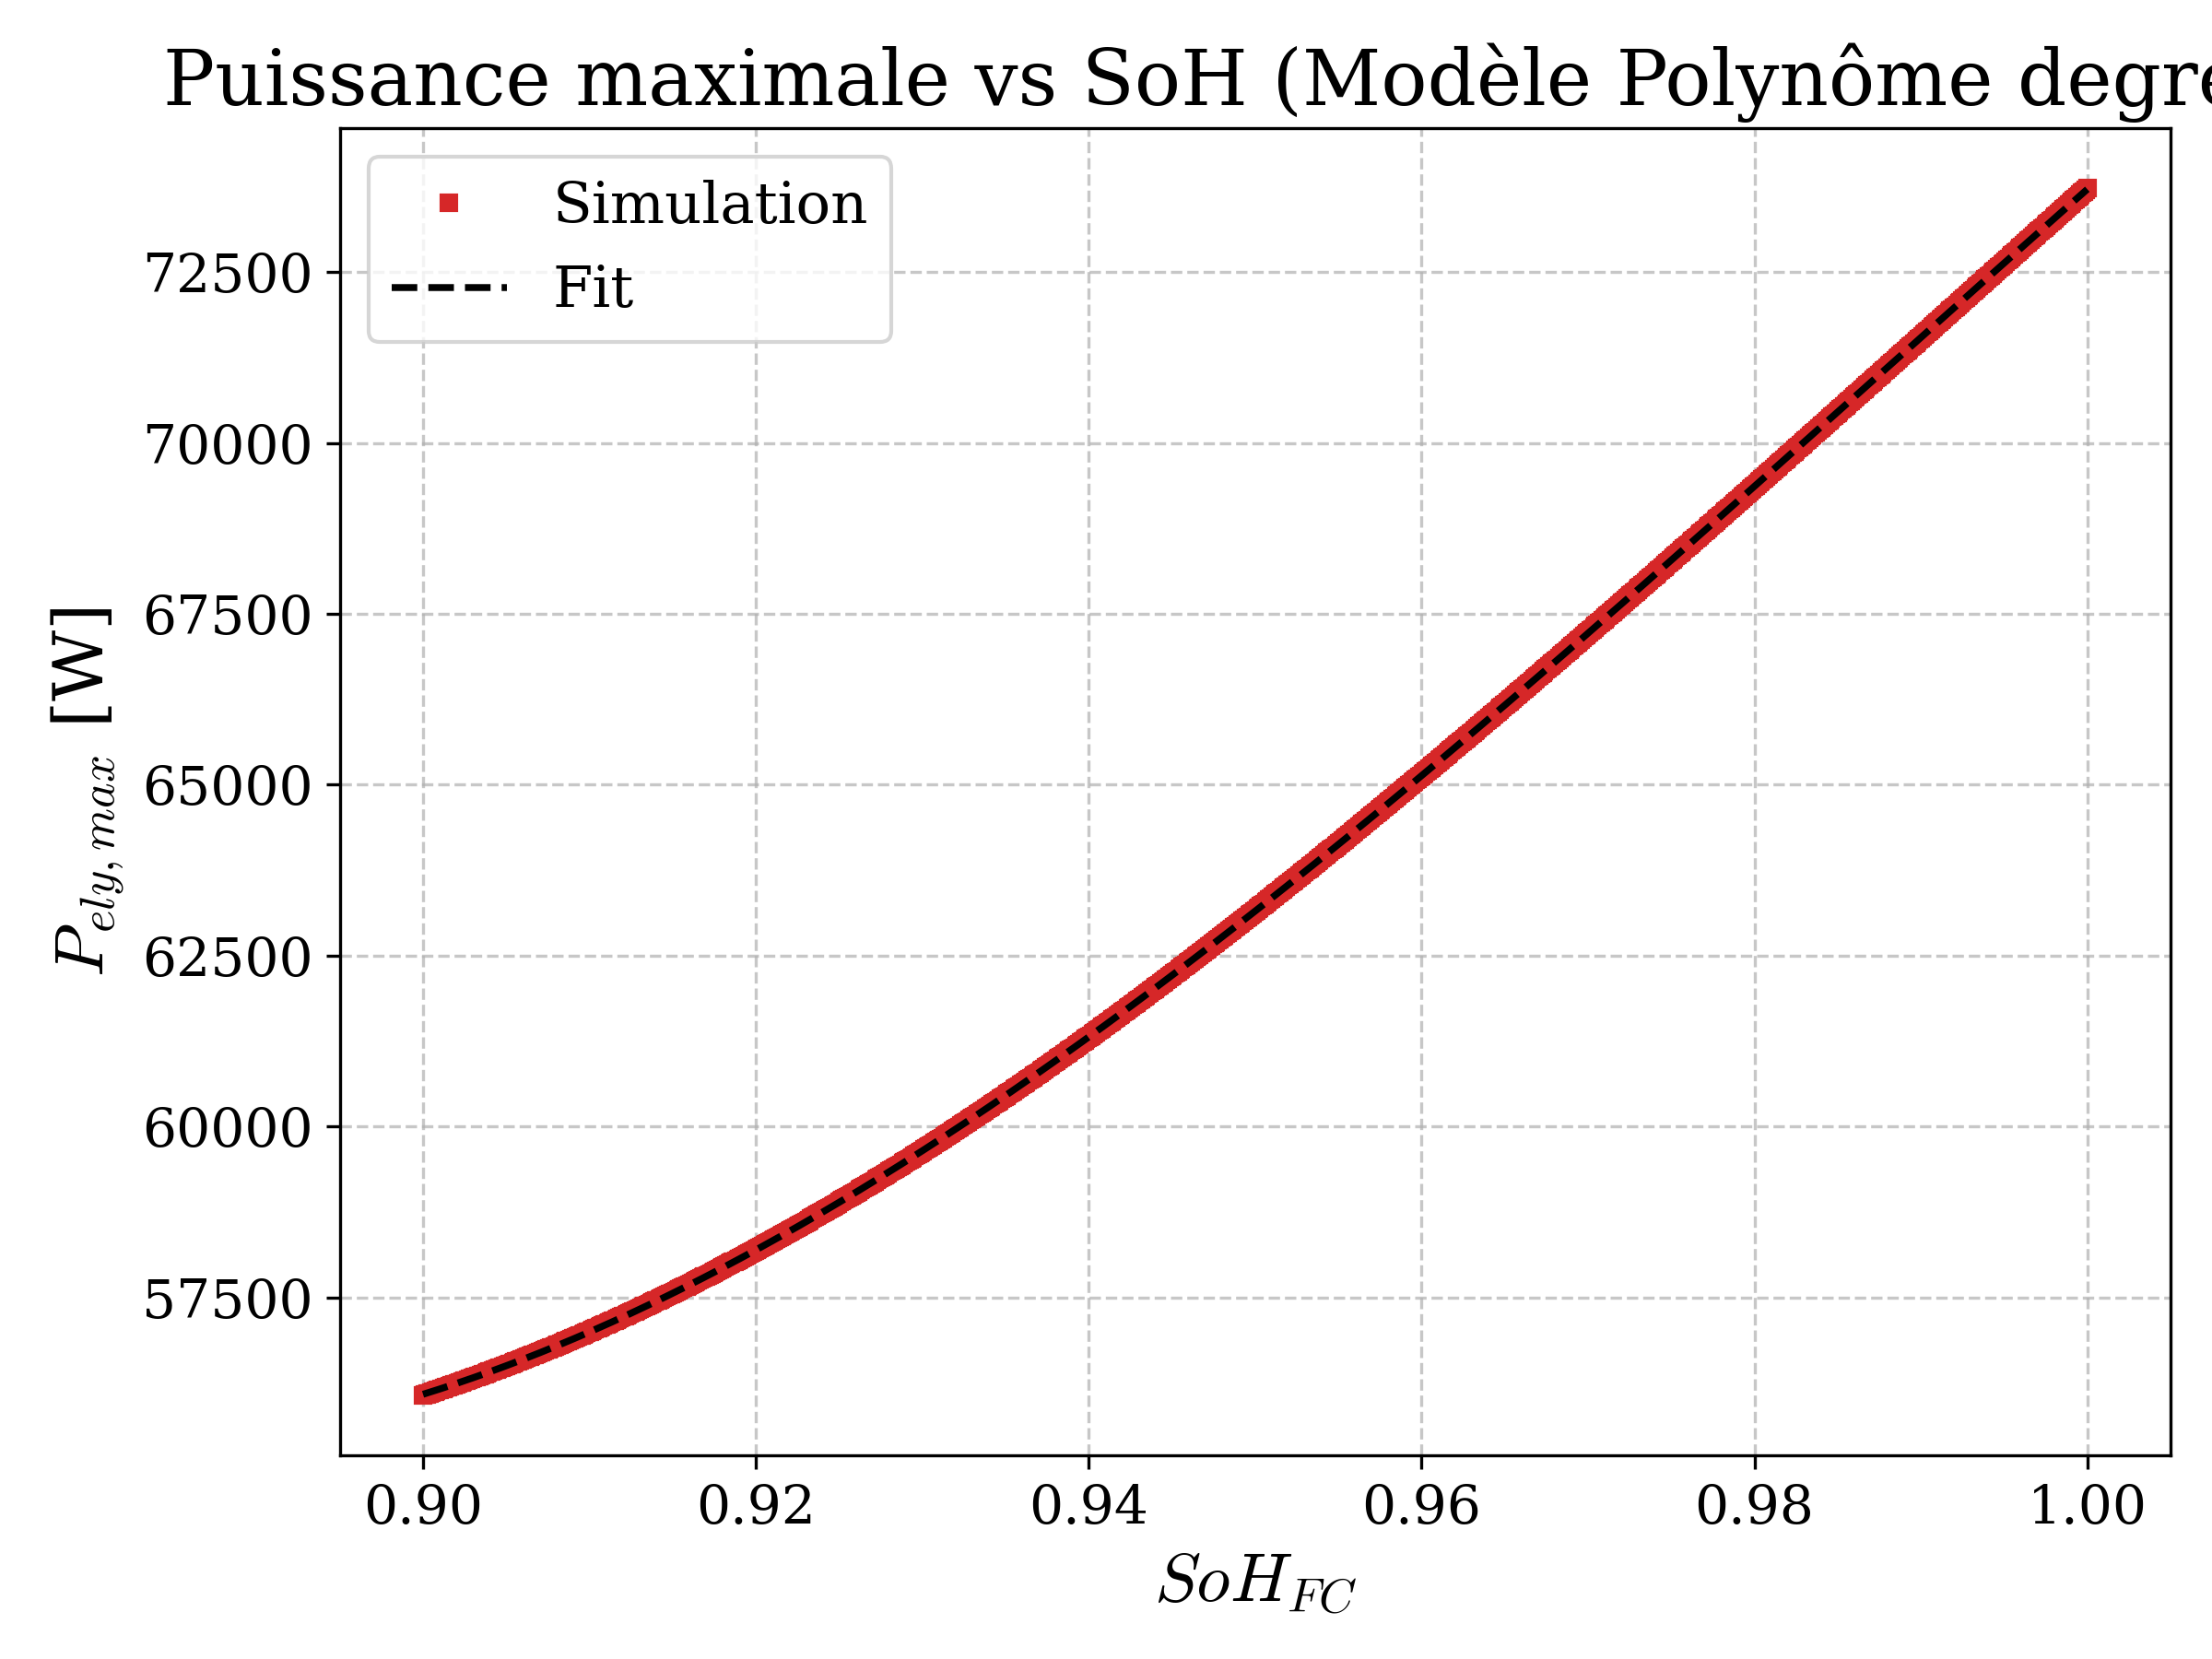
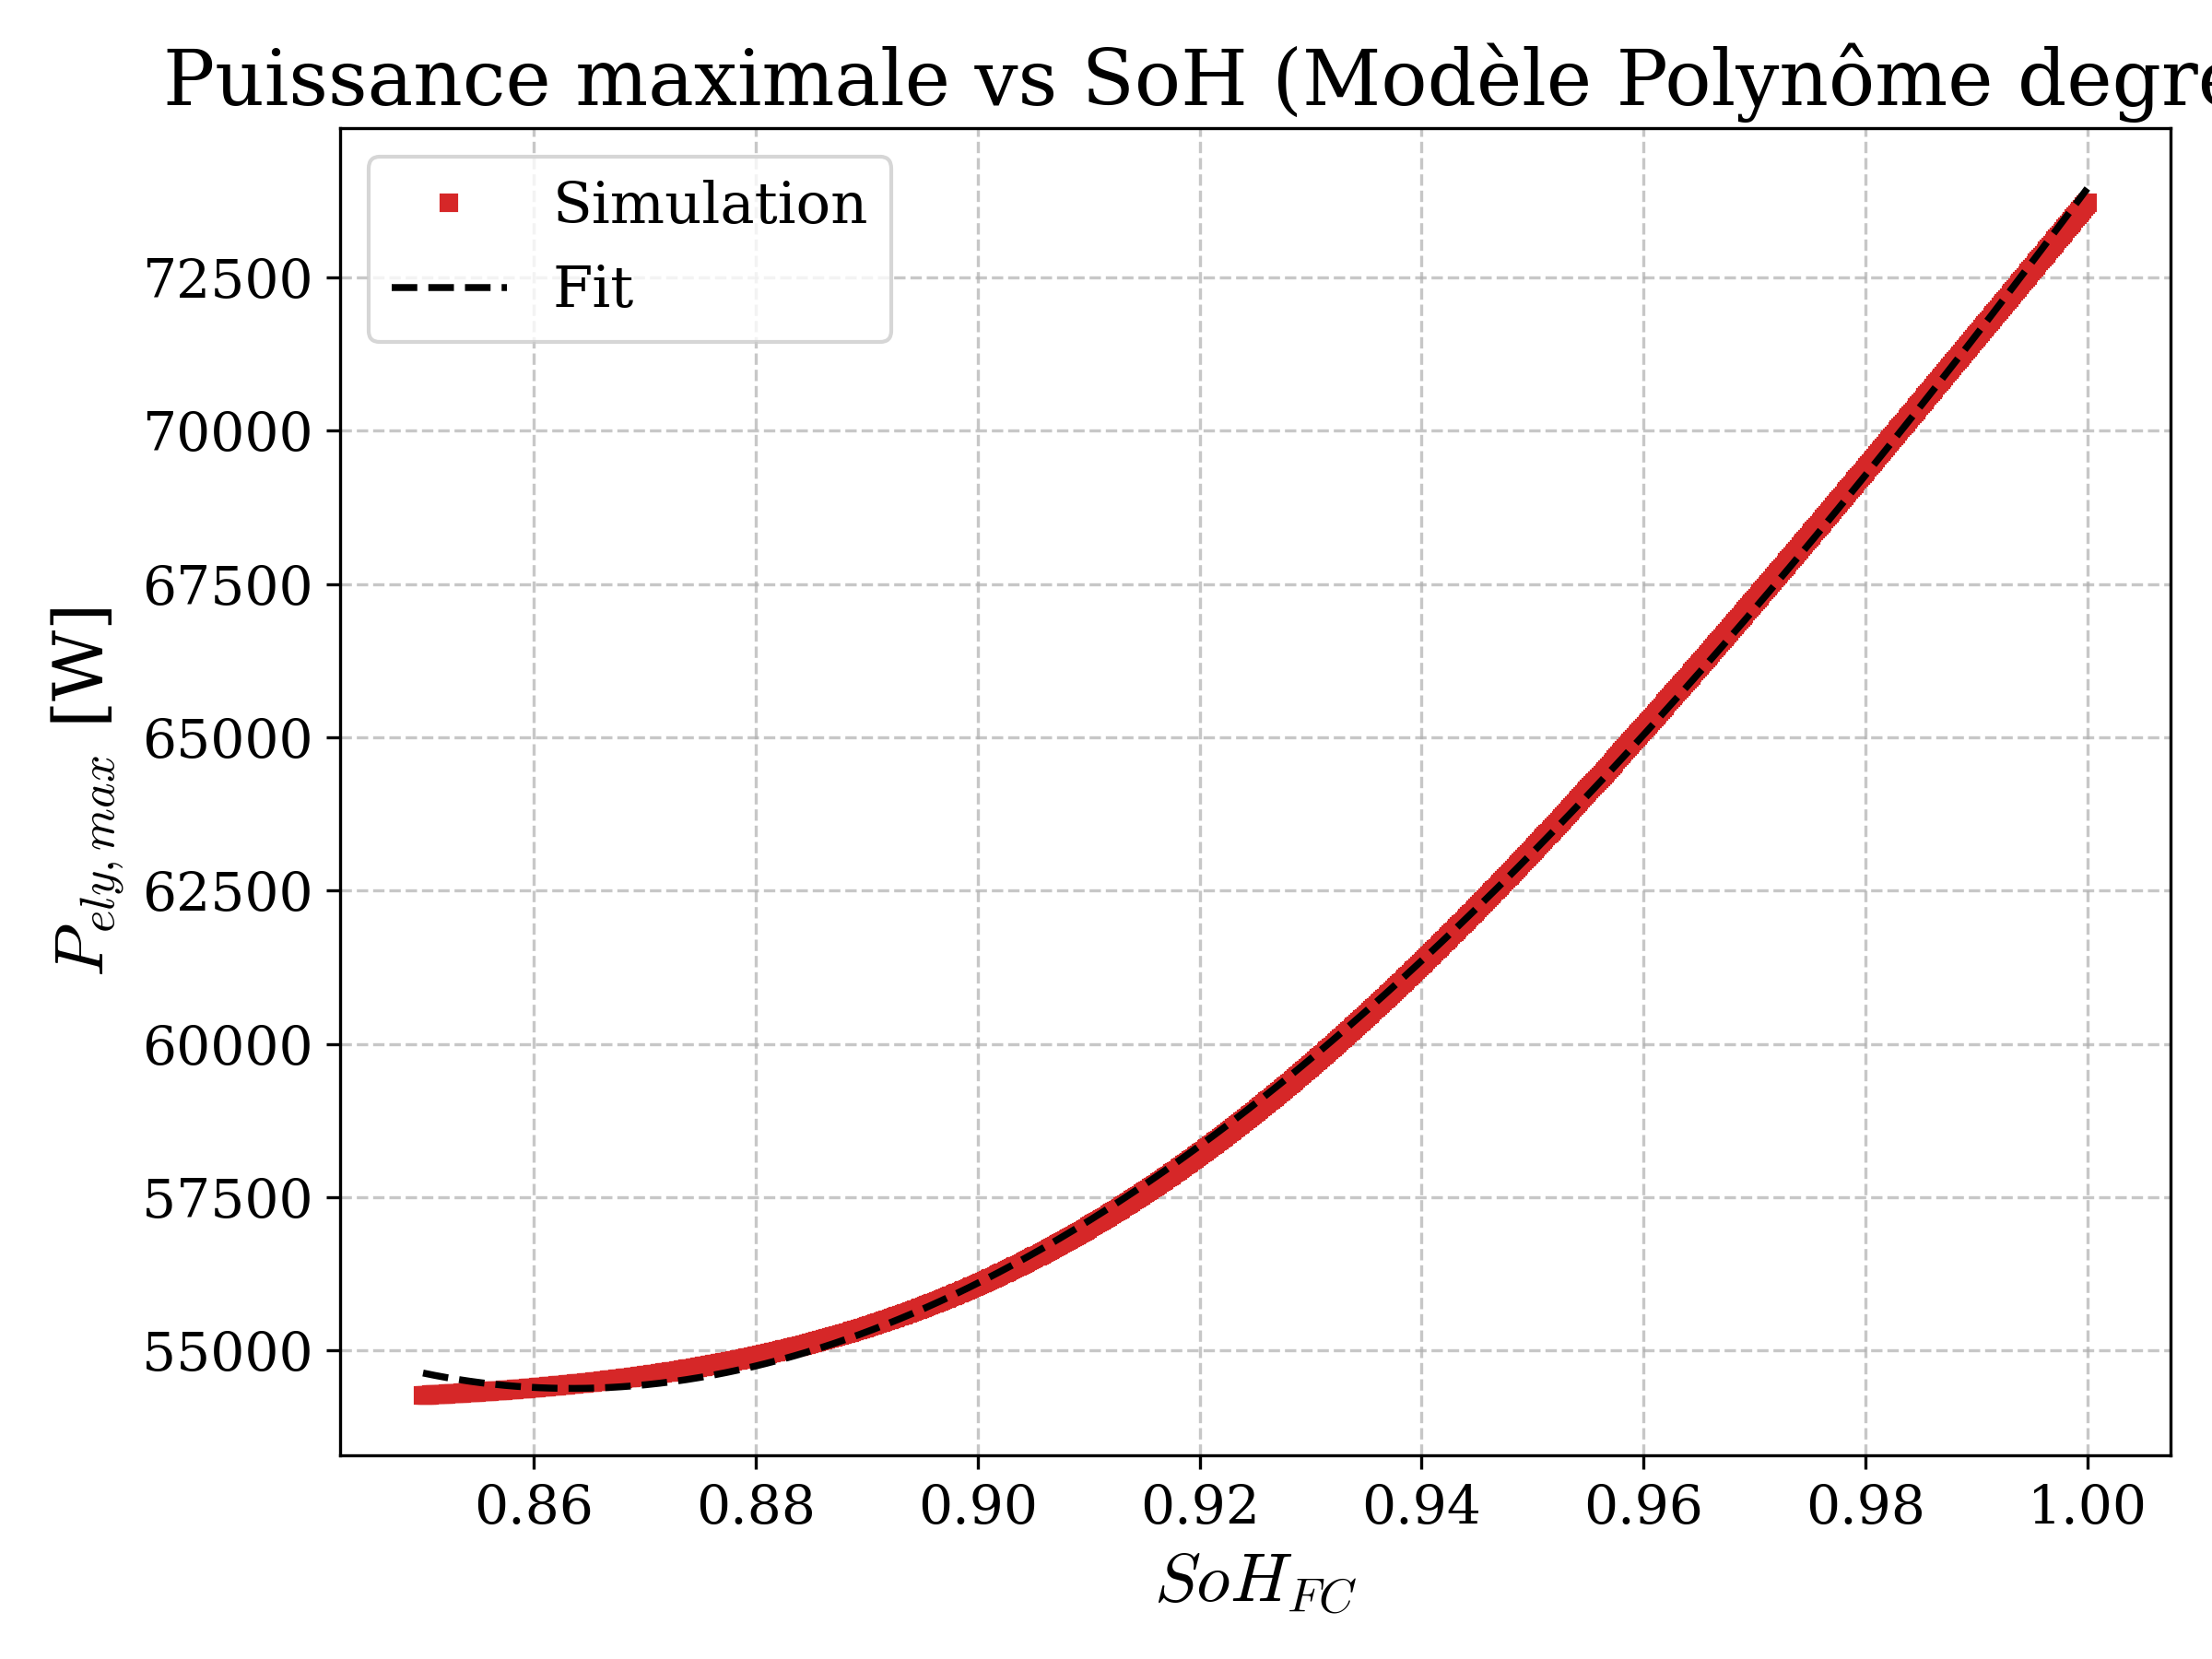
Analyse sensibilité qui marche

diff --git a/Modèles SOH/ELY.py b/Modèles SOH/ELY.py
@@ -154,7 +154,7 @@ SoH_ely = np.array([
 from scipy.optimize import brentq
 
 ####################################################################################################################
-SoH_EoL_ely = 0.9
+SoH_EoL_ely = 0.85
 ####################################################################################################################
 
 V_bol_ely   = voltage(0.0, i_ely_nom)
@@ -163,7 +163,7 @@ def residual_ely(alpha):
     return V_bol_ely / voltage(alpha, i_ely_nom) - SoH_EoL_ely
 
 # Pour l'ELY : tension monte avec alpha, donc SoH décroît → résiduel change de signe
-alpha_max_search = 0.226330713
+alpha_max_search = 0.248679
 if residual_ely(alpha_max_search) > 0:
     print("Attention : SoH_EoL non atteint dans [0, 1[. Augmenter la plage d'alpha.")
 else:
@@ -175,7 +175,7 @@ else:
 
 from scipy.optimize import curve_fit
 
-SoH_center = 0.9  # point de centrage
+SoH_center = 0.85  # point de centrage
 
 def model_poly3(x, a, b, c, d):
     s = x - SoH_center
@@ -187,7 +187,7 @@ def residual_ely(alpha, SoH):
 SoH_ely   = np.linspace(SoH_EoL_ely, 1, M)
 P_ely_max = np.zeros(M)
 for i in range(M):
-    alpha_ely = brentq(residual_ely, 0.0, 0.226330713, args=(SoH_ely[i],), xtol=1e-10, rtol=1e-10)
+    alpha_ely = brentq(residual_ely, 0.0, 0.248679, args=(SoH_ely[i],), xtol=1e-10, rtol=1e-10)
     i_ely_max = (-732.6 * alpha_ely + 732.6)
     P_ely_max[i] = i_ely_max * ELY['n_parallel'] * ELY['n_series'] * (ELY['E_0'] + ELY['R'] * (1 + alpha_ely) * i_ely_max / ELY['n_parallel'] 
                                                + A * ELY['T'] * np.log((i_ely_max / S / ELY['n_parallel'] + j_in) / ELY['j_0'])

diff --git a/Modèles SOH/FC.py b/Modèles SOH/FC.py
@@ -153,7 +153,7 @@ SoH_fc = np.array([
 from scipy.optimize import brentq
 
 ####################################################################################################################
-SoH_EoL_fc = 0.9
+SoH_EoL_fc = 0.85
 ####################################################################################################################
 
 V_bol_fc    = voltage(0.0, i_fc_nom)
@@ -162,7 +162,7 @@ def residual_fc(alpha):
     return voltage(alpha, i_fc_nom) / V_bol_fc - SoH_EoL_fc
 
 # Recherche d'un encadrement valide : on cherche alpha_max tel que SoH < SoH_EoL
-alpha_max_search = 0.22223223  # borne haute (alpha < 1 par construction)
+alpha_max_search = 0.274215  # borne haute (alpha < 1 par construction)
 if residual_fc(alpha_max_search) > 0:
     print("Attention : SoH_EoL non atteint dans [0, 1[. Augmenter la plage d'alpha.")
 else:
@@ -174,7 +174,7 @@ else:
 #########################################################################################################
 from scipy.optimize import curve_fit
 
-SoH_center = 0.9  # point de centrage
+SoH_center = 0.85  # point de centrage
 
 def model_poly3(x, a, b, c, d):
     s = x - SoH_center
@@ -186,7 +186,7 @@ def residual_fc(alpha, SoH):
 SoH_fc   = np.linspace(SoH_EoL_fc, 1, M)
 P_fc_max = np.zeros(M)
 for i in range(M):
-    alpha_fc = brentq(residual_fc, 0.0, 0.22223223, args=(SoH_fc[i],), xtol=1e-10, rtol=1e-10)
+    alpha_fc = brentq(residual_fc, 0.0, 0.274215, args=(SoH_fc[i],), xtol=1e-10, rtol=1e-10)
     i_fc_max    = (-234.8032 * alpha_fc + 238.8252)
     P_fc_max[i] = i_fc_max * FC['n_parallel'] * FC['n_series'] * (FC['E_0'] - FC['R'] * (1 + alpha_fc) * i_fc_max / FC['n_parallel']
                                             - A * FC['T'] * np.log((i_fc_max / S / FC['n_parallel'] + j_in) / FC['j_0'])

diff --git a/Robustesse/Analyse_sensibilite/sens_eol.py b/Robustesse/Analyse_sensibilite/sens_eol.py
@@ -241,11 +241,7 @@ def main():
                     xytext=(dx, dy), fontsize=11, color=col, weight='bold', zorder=7)
 
     ax.set_xlabel("LPSP [%]"); ax.set_ylabel("Cout de degradation [kEUR]")
-    ax.set_title("Robustesse du front de Pareto aux seuils de fin de vie (EoL)\n"
-                 "point = seuils nominaux ; ellipses 1$\\sigma$/2$\\sigma$ = incertitude EoL "
-                 "(bat %.2f-%.2f, FC/ELY %.2f-%.2f)"
-                 % (MC_RANGES['bat'][0], MC_RANGES['bat'][1],
-                    MC_RANGES['fc'][0], MC_RANGES['fc'][1]), fontsize=10)
+    ax.set_title("Robustesse du front de Pareto aux seuils EoL", fontsize=12)
     ax.grid(True, ls='--', alpha=0.5)
     fig.tight_layout()
     fig.savefig(os.path.join(RESULTS_DIR, "sens_eol_pareto.pdf"), bbox_inches="tight")
@@ -275,7 +271,7 @@ def main():
             axb.set_ylabel("Vie du composant [ans]", color='tab:blue')
         axb.tick_params(axis='y', labelcolor='tab:blue')
         ax.tick_params(axis='y', labelcolor='tab:red')
-    fig.suptitle("Sensibilite aux seuils EoL (OAT, strategie %s)" % REF_LABEL, fontsize=12)
+    fig.suptitle("Sensibilite OAT aux seuils EoL (%s)" % REF_LABEL, fontsize=12)
     fig.tight_layout()
     fig.savefig(os.path.join(RESULTS_DIR, "sens_eol_oat.pdf"), bbox_inches="tight")
     plt.close()

diff --git a/Robustesse/Vieillissement8/Common/main_init_and_loop.py b/Robustesse/Vieillissement8/Common/main_init_and_loop.py
@@ -75,13 +75,13 @@ def init_and_run_loop(get_optimal_action_RB):
     def residual_ely(alpha, SoH):
         return V_bol_ely / voltage_ely(alpha, i_ely_nom) - SoH
     
-    alpha_fc_eol  = brentq(residual_fc, 0.0, 0.22223223, args=(FC['SoH_EoL'],), xtol=1e-10, rtol=1e-10)
-    alpha_ely_eol = brentq(residual_ely, 0.0, 0.226330713, args=(ELY['SoH_EoL'],), xtol=1e-10, rtol=1e-10)
+    alpha_fc_eol  = brentq(residual_fc, 0.0, 0.274215, args=(FC['SoH_EoL'],), xtol=1e-10, rtol=1e-10)
+    alpha_ely_eol = brentq(residual_ely, 0.0, 0.248679, args=(ELY['SoH_EoL'],), xtol=1e-10, rtol=1e-10)
     
         # --- LUT alpha = f(SoH) ---
     _soh_grid      = np.linspace(1.0, min(FC['SoH_EoL'], ELY['SoH_EoL']), 2000)
-    _alpha_fc_grid  = np.array([brentq(residual_fc,  0.0, 0.22223223,   args=(s,), xtol=1e-10) for s in _soh_grid])
-    _alpha_ely_grid = np.array([brentq(residual_ely, 0.0, 0.226330713, args=(s,), xtol=1e-10) for s in _soh_grid])
+    _alpha_fc_grid  = np.array([brentq(residual_fc,  0.0, 0.274215,   args=(s,), xtol=1e-10) for s in _soh_grid])
+    _alpha_ely_grid = np.array([brentq(residual_ely, 0.0, 0.248679, args=(s,), xtol=1e-10) for s in _soh_grid])
     # soh_grid est décroissant (1.0 → SoH_EoL), on le retourne pour interp qui exige x croissant
     _soh_grid_flip      = _soh_grid[::-1]
     _alpha_fc_grid_flip  = _alpha_fc_grid[::-1]